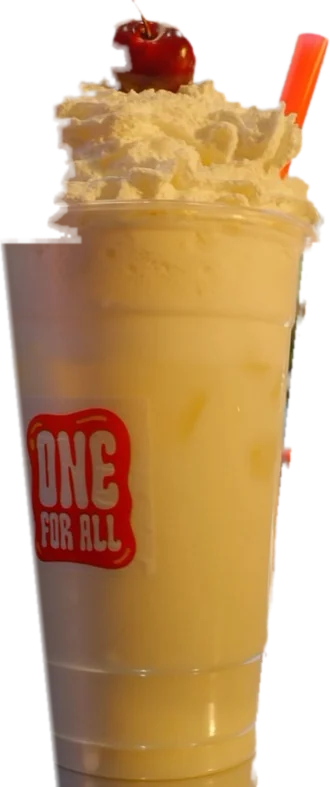
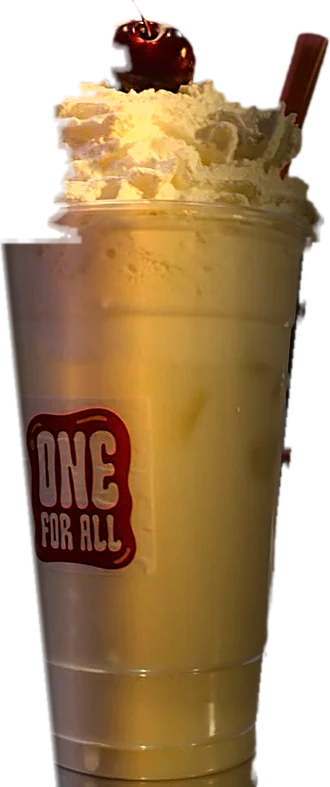
irbid: the badge intro is back, the two things stand on the glass, the cup is relit to the burger
Generated from nst-irbid-geo templates/oneforall-index.html.
n-street.jpg is the wide shopfront again, re-cut from IMG_7794 at 1488x1181.
n-shake-cut.webp is regraded: the burger's key direction, falloff and tonal range.

diff --git a/irbid/index.html b/irbid/index.html
@@ -15,9 +15,9 @@
      oneforall-menu/irbid/. They have broken twice by naming a photo a later change had deleted, and a
      broken og:image is invisible - the share preview just goes blank. Re-check both after any photo swap. -->
 <meta property="og:image" content="https://the-10th-floor.github.io/oneforall-menu/irbid/n-street.jpg">
-<meta property="og:image:width" content="974">
-<meta property="og:image:height" content="780">
-<meta property="og:image:alt" content="The lit One For All sign under the NST, Al-Hosn Road, Irbid">
+<meta property="og:image:width" content="1488">
+<meta property="og:image:height" content="1181">
+<meta property="og:image:alt" content="One For All at the NST, Al-Hosn Road, Irbid, at dusk">
 <meta property="og:locale" content="ar_JO">
 <meta property="og:locale:alternate" content="en_US">
 <link rel="icon" href="../stamp.png">
@@ -47,10 +47,15 @@ main{flex:1;width:100%;display:flex;flex-direction:column;padding-top:env(safe-a
 .awning::before{content:'';position:absolute;inset:0;background:linear-gradient(180deg,rgba(255,186,132,.10),rgba(40,11,6,.13) 52%,rgba(14,7,8,.46))}
 .awning::after{content:"";position:absolute;left:0;right:0;top:100%;height:15px;background:radial-gradient(circle at 15px 0,#F4E8E2 14.5px,transparent 15px) 0 0/60px 15px repeat-x,radial-gradient(circle at 45px 0,#F70E00 14.5px,transparent 15px) 0 0/60px 15px repeat-x;filter:drop-shadow(0 6px 8px rgba(0,0,0,.6)) brightness(.86) saturate(1.08)}
 /* --- their poster: heavy red capitals on warm white, cropped by the edge (their post of 2026-07) --- */
+/* their badge, over their shopfront: the vector, not the photographed lightbox, because the
+   lightbox is soft at this size and their artwork is not */
+.mark{position:absolute;left:50%;top:50%;z-index:2;width:min(46vw,232px);height:auto;margin:0;
+  transform:translate(-50%,-54%);
+  filter:drop-shadow(0 0 26px rgba(255,150,110,.42)) drop-shadow(0 12px 24px rgba(0,0,0,.72))}
 .hero{position:sticky;top:0;z-index:0;width:100%;margin:-6px 0 0;aspect-ratio:5/4;max-height:74vh;overflow:hidden}
-.hero img{display:block;width:100%;height:106%;object-fit:cover;object-position:50% 50%;filter:saturate(1.06)}
+.hero img:not(.mark){display:block;width:100%;height:108%;object-fit:cover;object-position:50% 56%;filter:saturate(1.06)}
 .hero::after{content:'';position:absolute;inset:0;pointer-events:none;
-  background:linear-gradient(180deg,transparent 80%,rgba(12,7,8,.42) 93%,rgba(12,7,8,.86)),radial-gradient(70% 54% at 50% 46%,rgba(12,7,8,.10),rgba(12,7,8,.08) 60%,rgba(12,7,8,.66))}
+  background:linear-gradient(180deg,transparent 74%,rgba(12,7,8,.5) 92%,rgba(12,7,8,.9)),radial-gradient(66% 50% at 50% 48%,rgba(12,7,8,.30),rgba(12,7,8,.16) 62%,rgba(12,7,8,.7))}
 /* the night sky at the top of their photograph is the same black as the page, so the frame has no edge */
 /* Their line, on their wall. The tile is drawn as one SVG unit in a running bond and repeated,
    so it is sharp at any width and costs 600 bytes; the colours are sampled off their own wall
@@ -67,32 +72,32 @@ main{flex:1;width:100%;display:flex;flex-direction:column;padding-top:env(safe-a
   transform:rotate(-2.6deg);text-shadow:0 2px 0 rgba(120,18,6,.55),0 12px 26px rgba(0,0,0,.5)}
 .slogan span{display:block}
 .slogan span+span{font-size:1.16em;margin-top:-.04em}
-/* The page ends on one sheet of glass: the two things themselves, cut out of their own
-   photographs, standing on the same edge with what the glass gives back, and their prices. No
-   frames, no rooms, nothing behind them. */
-.glass{position:relative;z-index:1;width:100%;margin:22px 0 0;padding:26px 16px 24px;background:var(--night)}
-.pane{--refl:64px;--cap:46px;position:relative;max-width:600px;margin:0 auto;padding:16px 16px 16px;border-radius:22px;
-  background:linear-gradient(180deg,rgba(255,246,238,.085),rgba(255,246,238,.02) 56%,rgba(255,246,238,0));
-  box-shadow:inset 0 1px 0 rgba(255,214,198,.3),inset 0 0 0 1px rgba(255,150,132,.13),0 26px 60px rgba(0,0,0,.6)}
-@supports (backdrop-filter:blur(2px)){.pane{backdrop-filter:blur(7px) saturate(1.12)}}
-.shelf{display:grid;grid-template-columns:auto auto;justify-content:center;align-items:end;gap:0 20px}
-.shelf figure{margin:0;display:grid;justify-items:center;grid-template-rows:auto var(--refl) var(--cap)}
-.obj{grid-row:1}.shelf figure::after{grid-row:2}.shelf figcaption{grid-row:3}
-.obj{display:block;width:auto;filter:drop-shadow(0 18px 20px rgba(0,0,0,.72))}
+/* The page ends on one sheet of glass. The two things are cut out of their own photographs and
+   stand ON it: the sheet's top edge is the line they stand on, their contact shadows sit on that
+   edge, and what the glass gives back runs down into it. No card, no frame, no prices. */
+.glass{--refl:62px;--pad:30px;position:relative;z-index:1;width:100%;margin:20px 0 0;
+  padding:30px 16px var(--pad);background:var(--night);overflow:hidden}
+.sheet{position:absolute;left:0;right:0;bottom:0;height:calc(var(--refl) + var(--pad));
+  background:linear-gradient(180deg,rgba(255,238,228,.16),rgba(255,238,228,.05) 44%,rgba(255,238,228,.012) 78%,transparent);
+  border-top:1px solid rgba(255,206,190,.5)}
+@supports (backdrop-filter:blur(2px)){.sheet{backdrop-filter:blur(6px) saturate(1.1)}}
+/* the light that runs along a glass edge, brightest where the two things sit on it */
+.sheet::before{content:"";position:absolute;left:0;right:0;top:-1px;height:2px;
+  background:linear-gradient(90deg,transparent,rgba(255,224,208,.85) 26%,rgba(255,224,208,.85) 74%,transparent)}
+.stage{position:relative;z-index:1;display:grid;grid-template-columns:auto auto;justify-content:center;
+  align-items:end;gap:0 18px;max-width:600px;margin:0 auto}
+.stage figure{position:relative;margin:0;display:grid;justify-items:center;grid-template-rows:auto var(--refl)}
+.obj{grid-row:1;display:block;width:auto;filter:drop-shadow(0 14px 16px rgba(0,0,0,.7))}
 .g-burger .obj{height:248px}
 .g-shake .obj{height:286px}
-/* what the glass gives back: the object again, upside down and dimmed, fading as it goes */
-.shelf figure::after{content:"";width:100%;background-repeat:no-repeat;background-position:50% 100%;
-  transform:scaleY(-1);opacity:.17;filter:blur(1px);
+/* the dark where the object meets the glass, without which it floats */
+.stage figure::before{content:"";position:absolute;z-index:1;left:6%;right:6%;top:calc(100% - var(--refl) - 7px);
+  height:17px;background:radial-gradient(50% 52% at 50% 50%,rgba(4,2,3,.92),rgba(4,2,3,.45) 55%,rgba(4,2,3,0) 78%)}
+.stage figure::after{content:"";grid-row:2;width:100%;background-repeat:no-repeat;background-position:50% 100%;
+  transform:scaleY(-1);opacity:.34;filter:blur(.8px);
   -webkit-mask-image:linear-gradient(180deg,transparent,#000);mask-image:linear-gradient(180deg,transparent,#000)}
 .g-burger::after{background-image:url(n-burger-cut.webp);background-size:auto 248px}
 .g-shake::after{background-image:url(n-shake-cut.webp);background-size:auto 286px}
-.edge{position:absolute;left:0;right:0;bottom:calc(var(--refl) + var(--cap) + 16px);height:1px;
-  background:linear-gradient(90deg,transparent,rgba(255,196,180,.55) 18%,rgba(255,196,180,.55) 82%,transparent)}
-.shelf figcaption{align-self:end;display:grid;justify-items:center;gap:2px;text-align:center}
-.shelf figcaption b{font-weight:700;font-size:.92rem;color:var(--warm)}
-.shelf figcaption span{color:var(--cream);font:900 1.35rem/1 "Archivo","Arial Black",system-ui,sans-serif;
-  font-stretch:112%;letter-spacing:-.03em;font-variant-numeric:tabular-nums}
 @media (max-width:359px){.g-burger .obj{height:210px}.g-shake .obj{height:244px}
   .g-burger::after{background-size:auto 210px}.g-shake::after{background-size:auto 244px}}
 .wrap{position:relative;z-index:1;width:100%;max-width:600px;margin:0 auto;padding:0 16px 8px;background:var(--night)}
@@ -175,14 +180,19 @@ footer{font-size:.85rem;color:var(--dim);text-align:center;margin-top:26px;line-
 /* The photographs pan inside fixed frames as they cross the screen — the page reads as a camera
    walking past the shop. Nothing animates on load, and it reverses when you scroll back up, which is
    what keeps it from reading as a screensaver. Frames never move, so nothing below ever reflows. */
-@media (prefers-reduced-motion:no-preference){@supports (animation-timeline:view()){
-  .hero img{animation:pan linear both;animation-timeline:view();animation-range:cover 0% cover 100%;will-change:transform}
-  /* the two things rise onto the glass as it comes into the screen */
-  .shelf .obj{animation:stand linear both;animation-timeline:view();animation-range:cover 6% cover 62%}
-  @keyframes stand{from{transform:translateY(26px);opacity:.25}to{transform:translateY(0);opacity:1}}
-  @keyframes pan{from{transform:translateY(0)}to{transform:translateY(-5.6%)}}
+/* the big mark hands over to the bar as the page moves */
+@media (prefers-reduced-motion:no-preference){@supports (animation-timeline:scroll()){
+  .mark{animation:handover linear both;animation-timeline:scroll(root block);animation-range:0 46vh}
+  @keyframes handover{from{opacity:1}70%{opacity:.35}to{opacity:0}}
 }}
-@media (prefers-reduced-motion:reduce){.wrap,.dock,.hero img,.shelf .obj{animation:none!important}.thumb{transition:none}}
+@media (prefers-reduced-motion:no-preference){@supports (animation-timeline:view()){
+  .hero img:not(.mark){animation:pan linear both;animation-timeline:view();animation-range:cover 0% cover 100%;will-change:transform}
+  /* the two things rise onto the glass as it comes into the screen */
+  .stage .obj{animation:stand linear both;animation-timeline:view();animation-range:cover 6% cover 62%}
+  @keyframes stand{from{transform:translateY(26px);opacity:.25}to{transform:translateY(0);opacity:1}}
+  @keyframes pan{from{transform:translateY(0)}to{transform:translateY(-7.4%)}}
+}}
+@media (prefers-reduced-motion:reduce){.wrap,.dock,.mark,.hero img:not(.mark),.stage .obj{animation:none!important}.thumb{transition:none}}
 </style>
 </head>
 <body>
@@ -197,7 +207,8 @@ footer{font-size:.85rem;color:var(--dim);text-align:center;margin-top:26px;line-
     </nav>
   </header>
   <figure class="hero">
-    <img src="n-street.jpg" alt="The lit One For All sign on their red wall under the NST, Al-Hosn Road at dusk" width="974" height="780" fetchpriority="high" decoding="async">
+    <img src="n-street.jpg" alt="Their shopfront at dusk under the NST on Al-Hosn Road, the sign lit" width="1488" height="1181" fetchpriority="high" decoding="async">
+    <img class="mark" src="../ofa-badge.png" width="480" height="569" alt="One For All" fetchpriority="high">
   </figure>
   <section class="slogan" aria-label="واحد للكل">
     <p><span>واحد</span><span>للكل</span></p>
@@ -299,18 +310,14 @@ footer{font-size:.85rem;color:var(--dim);text-align:center;margin-top:26px;line-
 </div>
 
   <section class="glass" aria-label="The OFA and the milkshake">
-    <div class="pane">
-      <div class="shelf">
-        <figure class="g-burger">
-          <img class="obj" src="n-burger-cut.webp" alt="The OFA smashed burger, three patties" width="560" height="615" loading="lazy" decoding="async">
-          <figcaption><b data-ar="الـOFA" data-en="The OFA">الـOFA</b><span>1.98</span></figcaption>
-        </figure>
-        <figure class="g-shake">
-          <img class="obj" src="n-shake-cut.webp" alt="A One For All milkshake, whipped cream and a cherry" width="330" height="776" loading="lazy" decoding="async">
-          <figcaption><b data-ar="ميلك شيك" data-en="Milkshake">ميلك شيك</b><span>2.50</span></figcaption>
-        </figure>
-      </div>
-      <span class="edge" aria-hidden="true"></span>
+    <div class="sheet" aria-hidden="true"></div>
+    <div class="stage">
+      <figure class="g-burger">
+        <img class="obj" src="n-burger-cut.webp" alt="The OFA smashed burger, three patties" width="560" height="615" loading="lazy" decoding="async">
+      </figure>
+      <figure class="g-shake">
+        <img class="obj" src="n-shake-cut.webp" alt="A One For All milkshake, whipped cream and a cherry" width="330" height="787" loading="lazy" decoding="async">
+      </figure>
     </div>
   </section>
   <div class="floor"><img src="../lockup.svg" alt="The X Floor"></div>
@@ -328,7 +335,6 @@ const show = (l, remember) => {
     document.getElementById('txt-' + k).hidden = k !== l;
     document.getElementById('btn-' + k).setAttribute('aria-pressed', k === l);
   }
-  for (const el of document.querySelectorAll('[data-ar]')) el.textContent = el.dataset[l];
   dock.dataset.lang = l;
   document.documentElement.lang = l;
   document.documentElement.dir = (l === 'ar') ? 'rtl' : 'ltr';
